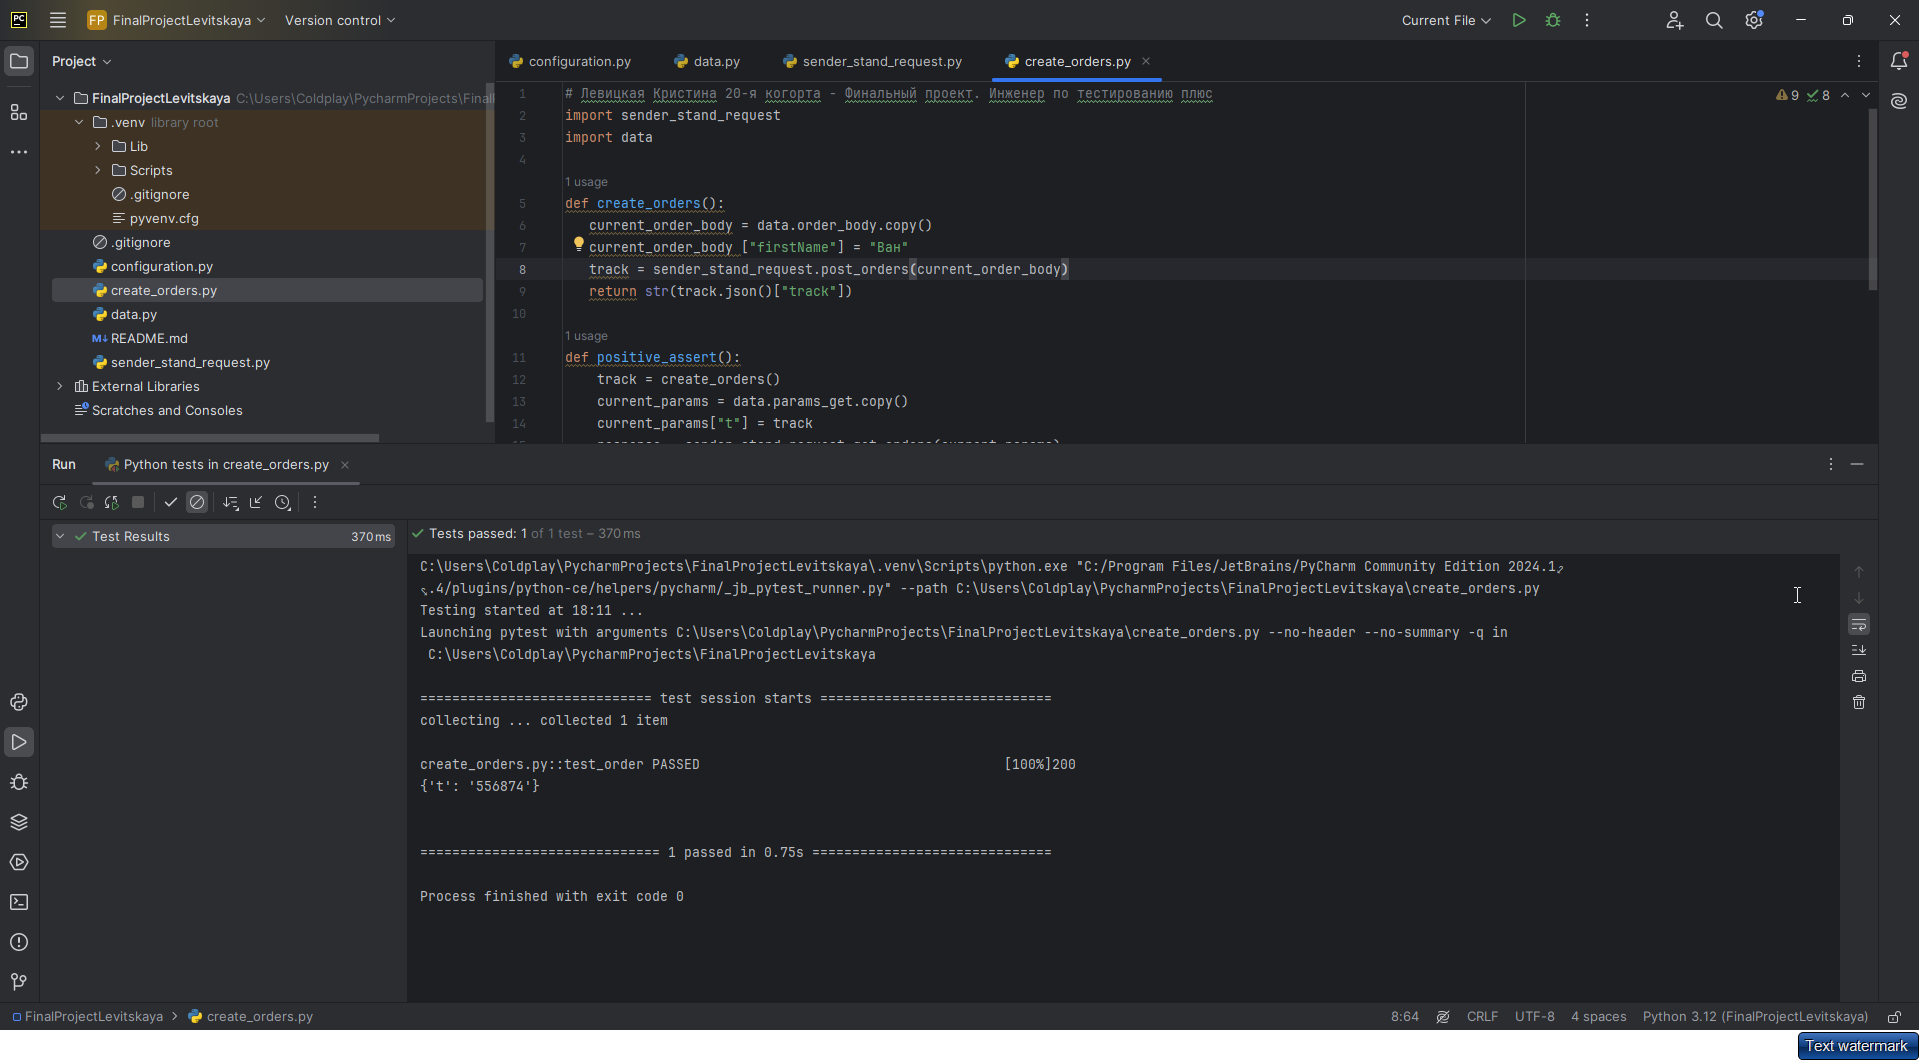
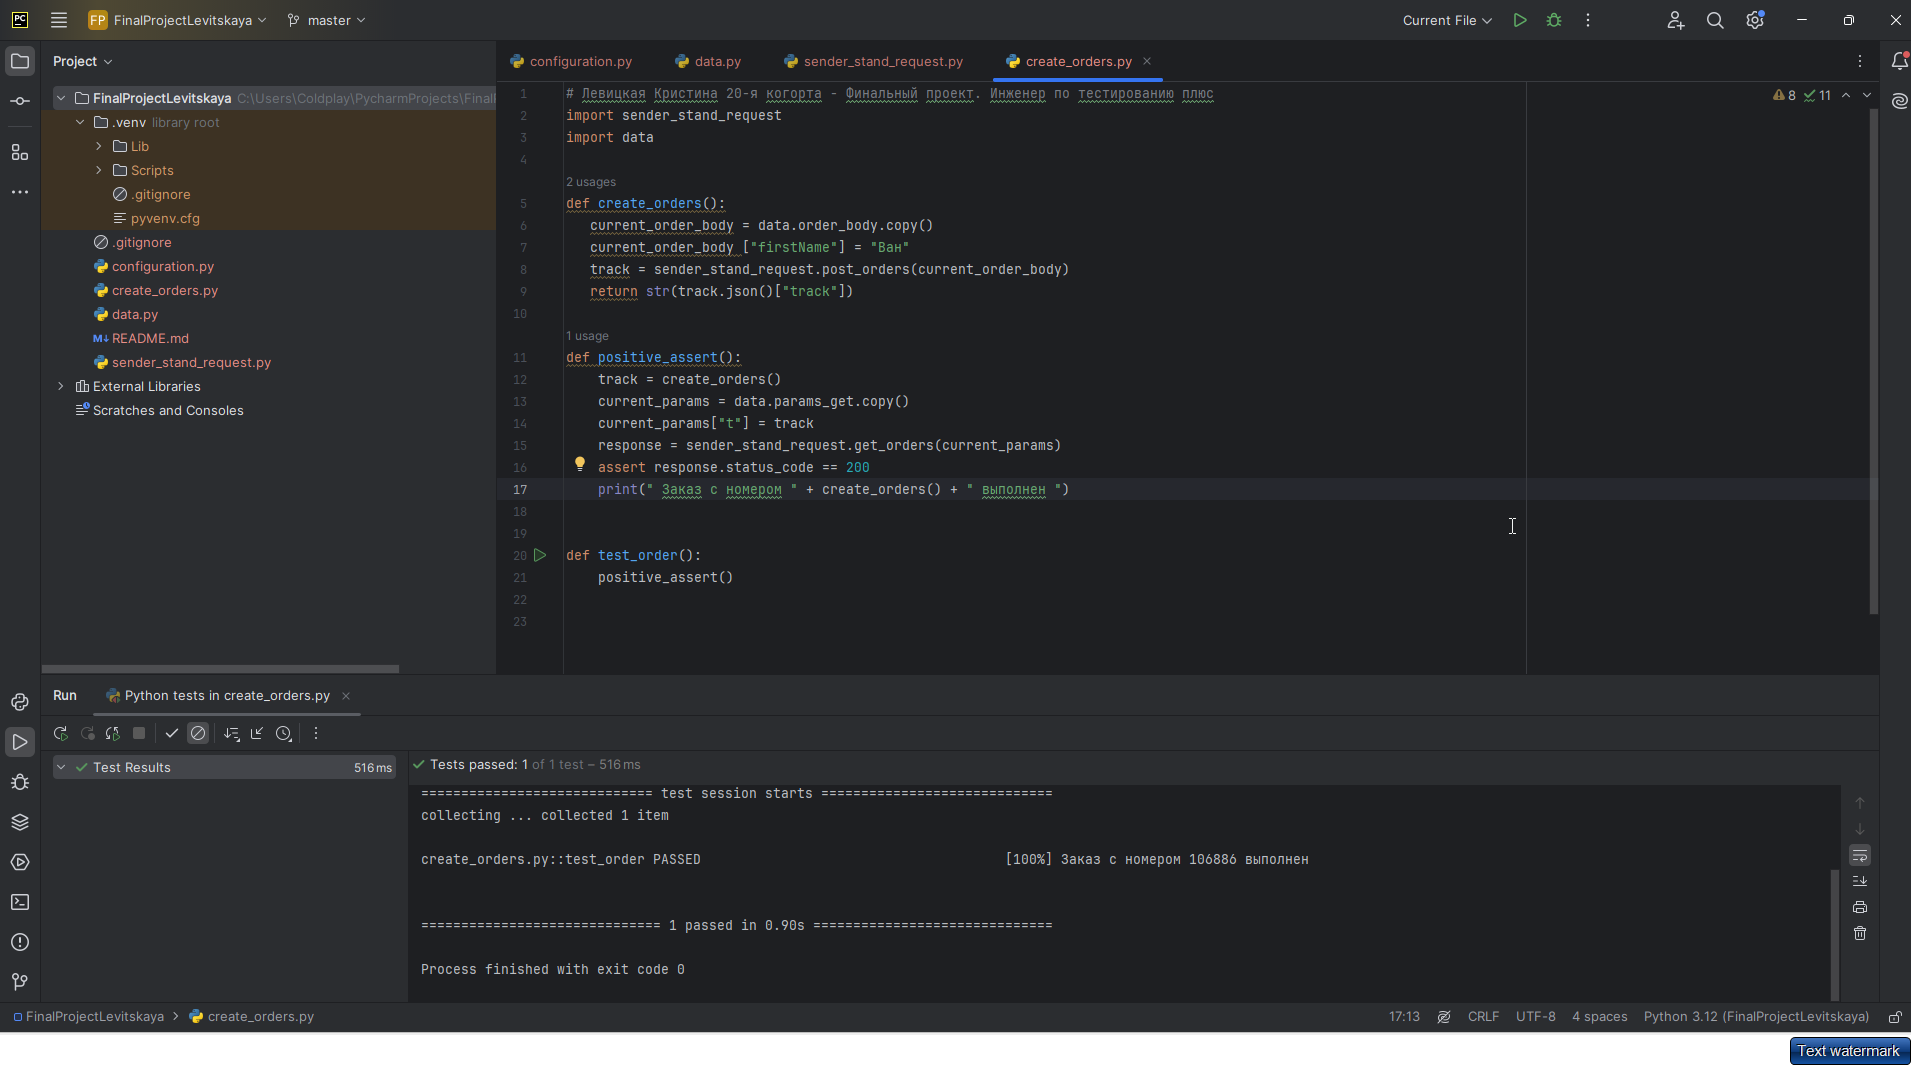
FinalProjectLevitskaya

diff --git a/create_orders.py b/create_orders.py
@@ -5,7 +5,7 @@ import data
 def create_orders():
    current_order_body = data.order_body.copy()
    current_order_body ["firstName"] = "Ван"
-   track = sender_stand_request.post_orders(current_order_body)c
+   track = sender_stand_request.post_orders(current_order_body)
    return str(track.json()["track"])
 
 def positive_assert():
@@ -14,8 +14,8 @@ def positive_assert():
     current_params["t"] = track
     response = sender_stand_request.get_orders(current_params)
     assert response.status_code == 200
-    print(response.status_code)
-    print(current_params)
+    print(" Заказ с номером " + create_orders() + " выполнен ")
+
 
 def test_order():
     positive_assert()

diff --git a/configuration.py b/configuration.py
@@ -1,3 +1,3 @@
-URL_SERVICE = "https://331a5d1c-4fe8-4d95-80f4-2c8e88c84b9b.serverhub.praktikum-services.ru/"
+URL_SERVICE = "https://a76a41d1-9a11-4411-b272-04aa32820080.serverhub.praktikum-services.ru/"
 CREATE_ORDERS = "/api/v1/orders"
 GET_ORDERS = "/api/v1/orders/track"

diff --git a/README.md b/README.md
@@ -1,0 +1,3 @@
+# Автоматизация теста к API
+- Для запуска тестов должны быть установлены пакеты pytest и requests
+- Запуск всех тестов выполянется командой pytest
